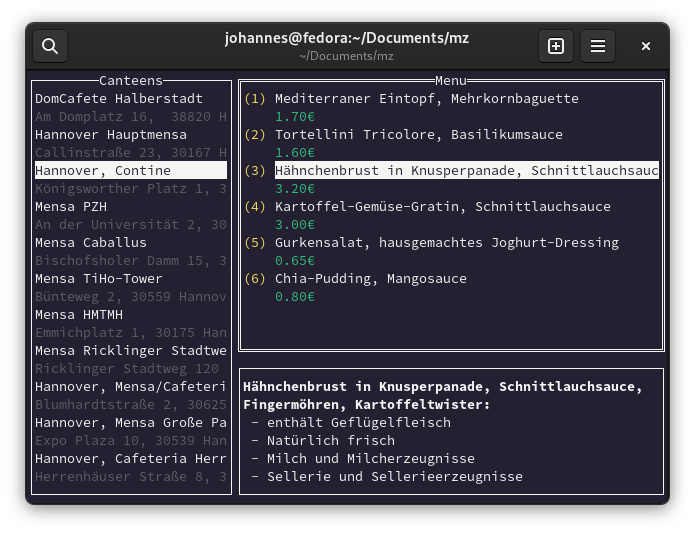
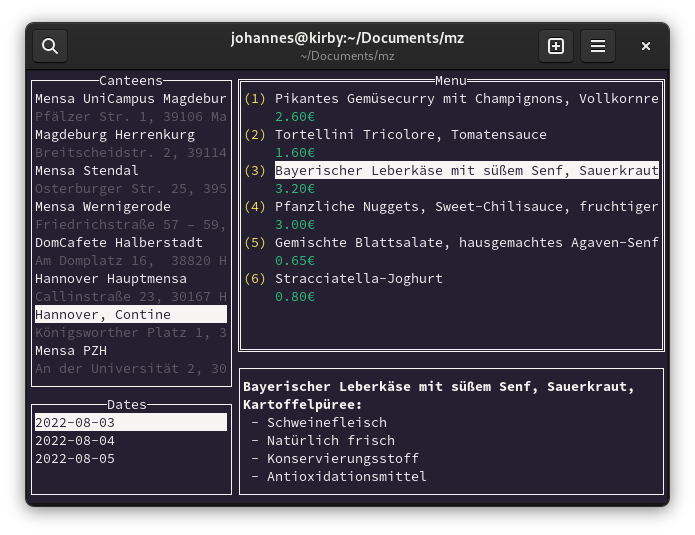
Implement date selection

diff --git a/helpers.go b/helpers.go
@@ -31,25 +31,18 @@ func loadCanteens(list *tview.List) {
 // displayMenu updates menu listings and meal details.
 //
 // This function is meant to be run as a goroutine.
-func displayMenu(app *tview.Application, menuList *tview.List, detailView *tview.TextView, menu <-chan []openmensa.Meal, date <-chan openmensa.Day, mealIndex <-chan int) {
+func displayMenu(app *tview.Application, menuList *tview.List, detailView *tview.TextView, menu <-chan []openmensa.Meal, mealIndex <-chan int) {
 	var current_menu []openmensa.Meal
 	for {
 		select {
-		case current_date := <-date:
-			app.QueueUpdateDraw(func() {
-				menuList.SetTitle("Menu on " + current_date.Date.String())
-			})
 		case current_menu = <-menu:
 			app.QueueUpdateDraw(func() {
-				menuList.Clear()
-
 				for i, m := range current_menu {
 					menuList.AddItem(m.Name, fmt.Sprintf("%.2f€", m.Prices["students"]), rune('1'+i), nil)
 				}
 			})
 		case i := <-mealIndex:
 			if i < len(current_menu) {
-				detailView.Clear()
 				meal := current_menu[i]
 				contents := fmt.Sprintf("[::b]%s:[::-]\n", meal.Name)
 				for _, note := range meal.Notes {
@@ -61,38 +54,56 @@ func displayMenu(app *tview.Application, menuList *tview.List, detailView *tview
 	}
 }
 
-// canteenSelected allows for asynchonous retrieval of meal information.
+// selection allows for asynchonous retrieval of meal information.
 //
 // Canteen names are searched after arrival in the channel, their current meals are
 // then sent through currentMenu.
 //
 // This function is meant to be run as a goroutine.
-func canteenSelected(canteenName <-chan string, currentMenu chan<- []openmensa.Meal, nextDay chan<- openmensa.Day) {
-	for name := range canteenName {
-		// Notify the user data is being requiested
-		detailView.SetText("Loading...")
+func selection(app *tview.Application, calendar *tview.List, canteenName <-chan string, dateSel <-chan string, currentMenu chan<- []openmensa.Meal) {
+	var mensaId int
 
-		// Save the canteen
-		config.SaveLastCanteen(name)
+	for {
+		select {
+		case name := <-canteenName:
+			// Notify the user data is being requiested
+			detailView.SetText("Loading...")
 
-		// Find the canteen by its name
-		mensa, err := openmensa.FindCanteen(name)
-		if err != nil {
-			errHandler(err)
-			continue
+			// Save the canteen
+			config.SaveLastCanteen(name)
+
+			// Find the canteen by its name
+			mensa, err := openmensa.FindCanteen(name)
+			if err != nil {
+				errHandler(err)
+				continue
+			}
+
+			mensaId = mensa.Id
+
+			openings, err := openmensa.GetDays(mensaId)
+			if err != nil {
+				errHandler(err)
+				continue
+			}
+
+			app.QueueUpdateDraw(func() {
+				for _, d := range openings {
+					if !d.Closed {
+						calendar.AddItem(d.Date.String(), "", 0, nil)
+					}
+				}
+			})
+		case date := <-dateSel:
+			// Notify the user data is being requiested
+			detailView.SetText("Loading...")
+			meals, err := openmensa.GetMealsOn(mensaId, date)
+			if err != nil {
+				errHandler(err)
+				continue
+			}
+
+			currentMenu <- meals
 		}
-
-		// Find the meals served by the canteen
-		menu, date, err := openmensa.GetNextMeals(mensa.Id)
-
-		if err != nil {
-			errHandler(err)
-		} else {
-			nextDay <- *date
-		}
-
-		// Update the displayed menu.
-		// If there was an error, menu will be nil, and the list will be cleared anyways.
-		currentMenu <- menu
 	}
 }

diff --git a/main.go b/main.go
@@ -13,12 +13,9 @@ func main() {
 	app := tview.NewApplication()
 	app.EnableMouse(true)
 
-	pages := tview.NewPages()
-
 	mainView := tview.NewFlex()
 
-	pages.AddPage("mensaview", mainView, true, true)
-
+	mensaArea := tview.NewFlex().SetDirection(tview.FlexRow)
 	menuArea := tview.NewFlex().SetDirection(tview.FlexRow)
 
 	menuList := tview.NewList()
@@ -40,16 +37,26 @@ func main() {
 	mensaList.SetBorder(true).SetTitle("Canteens")
 	mensaList.SetHighlightFullLine(true).SetSecondaryTextColor(tcell.ColorGray)
 
-	mainView.AddItem(mensaList, 0, 1, true)
+	calendar := tview.NewList()
+	calendar.SetBorder(true).SetTitle("Dates")
+	calendar.SetHighlightFullLine(true).ShowSecondaryText(false)
+
+	mensaArea.AddItem(mensaList, 0, 3, true)
+	mensaArea.AddItem(calendar, 0, 1, true)
+
+	mainView.AddItem(mensaArea, 0, 1, true)
 	mainView.AddItem(menuArea, 0, 2, false)
 
+	// Canteen and date
 	currentCanteen := make(chan string, 1)
+	currentDate := make(chan string, 1)
+
+	// Menu and menu index
 	currentMenu := make(chan []openmensa.Meal, 1)
-	currentDate := make(chan openmensa.Day, 1)
 	mealIndex := make(chan int, 1)
 
-	go canteenSelected(currentCanteen, currentMenu, currentDate)
-	go displayMenu(app, menuList, detailView, currentMenu, currentDate, mealIndex)
+	go selection(app, calendar, currentCanteen, currentDate, currentMenu)
+	go displayMenu(app, menuList, detailView, currentMenu, mealIndex)
 
 	// Retrieve the last canteen
 	last := config.GetLastCanteen()
@@ -57,13 +64,22 @@ func main() {
 	// Load list of canteens
 	loadCanteens(mensaList)
 
-	// Send the menu to the handler
+	// Send the canteen and dates to the handler
 	mensaList.SetChangedFunc(func(index int, mainText, secondaryText string, shortcut rune) {
+		menuList.Clear()
+		detailView.Clear()
+		calendar.Clear()
 		currentCanteen <- mainText
+	})
+	calendar.SetChangedFunc(func(index int, mainText, secondaryText string, shortcut rune) {
+		menuList.Clear()
+		detailView.Clear()
+		currentDate <- mainText
 	})
 
 	// Notify the handler that an index has changed
 	menuList.SetChangedFunc(func(index int, mainText, secondaryText string, shortcut rune) {
+		detailView.Clear()
 		mealIndex <- index
 	})
 
@@ -73,7 +89,7 @@ func main() {
 		mensaList.SetCurrentItem(matches[0])
 	}
 
-	if err := app.SetRoot(pages, true).SetFocus(mensaList).Run(); err != nil {
+	if err := app.SetRoot(mainView, true).SetFocus(mensaList).Run(); err != nil {
 		panic(err)
 	}
 }
